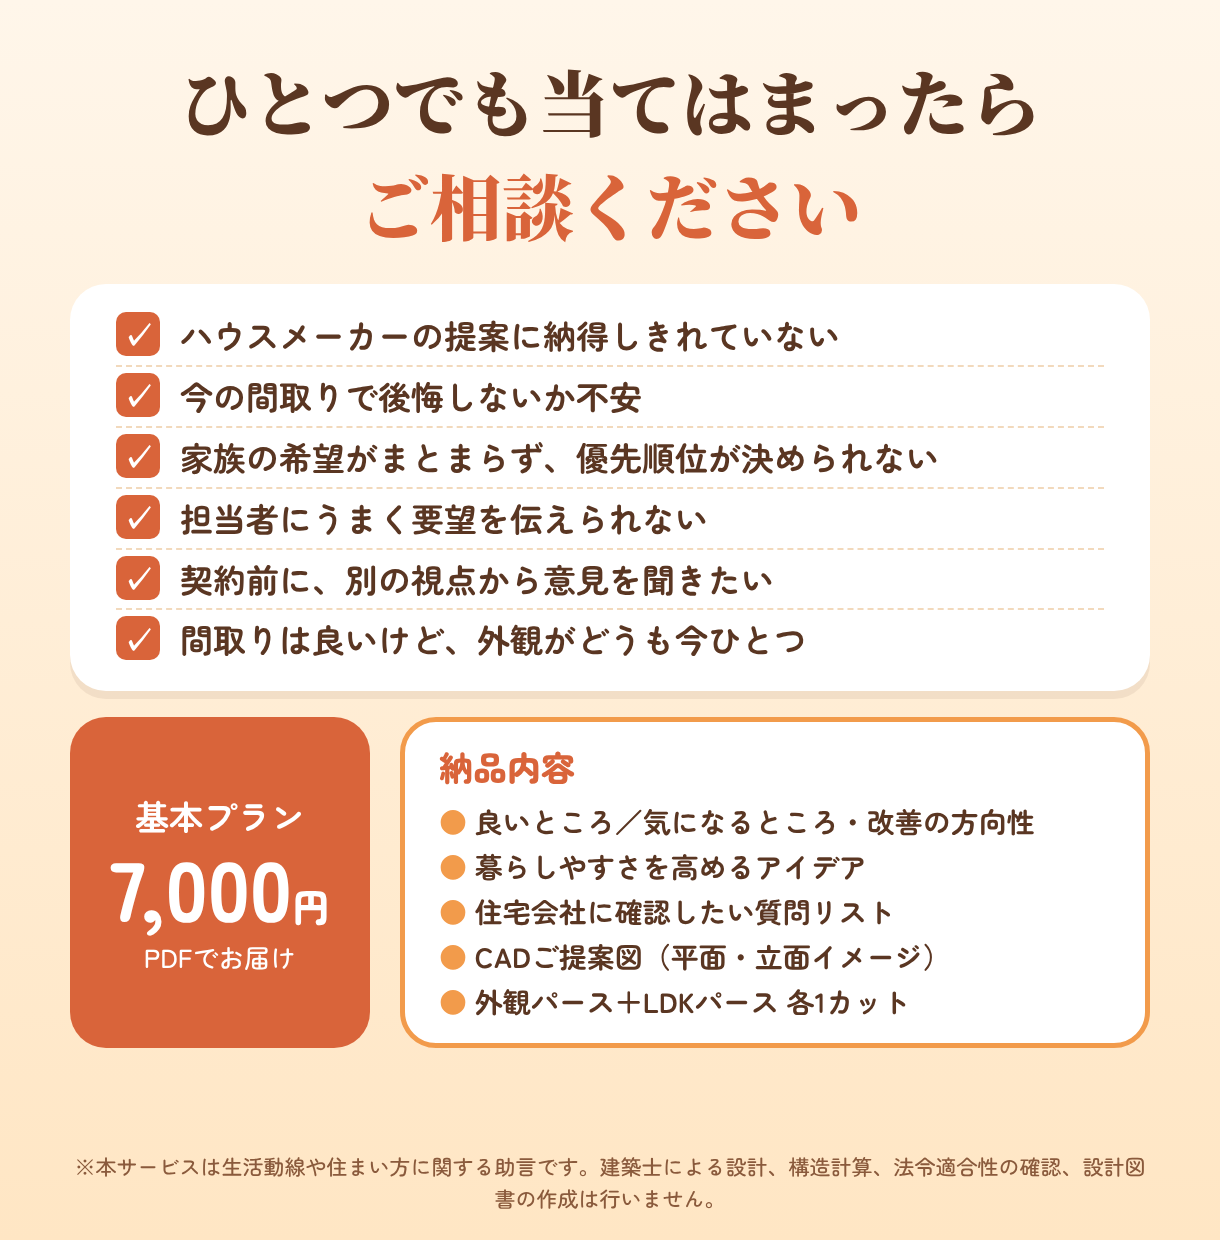
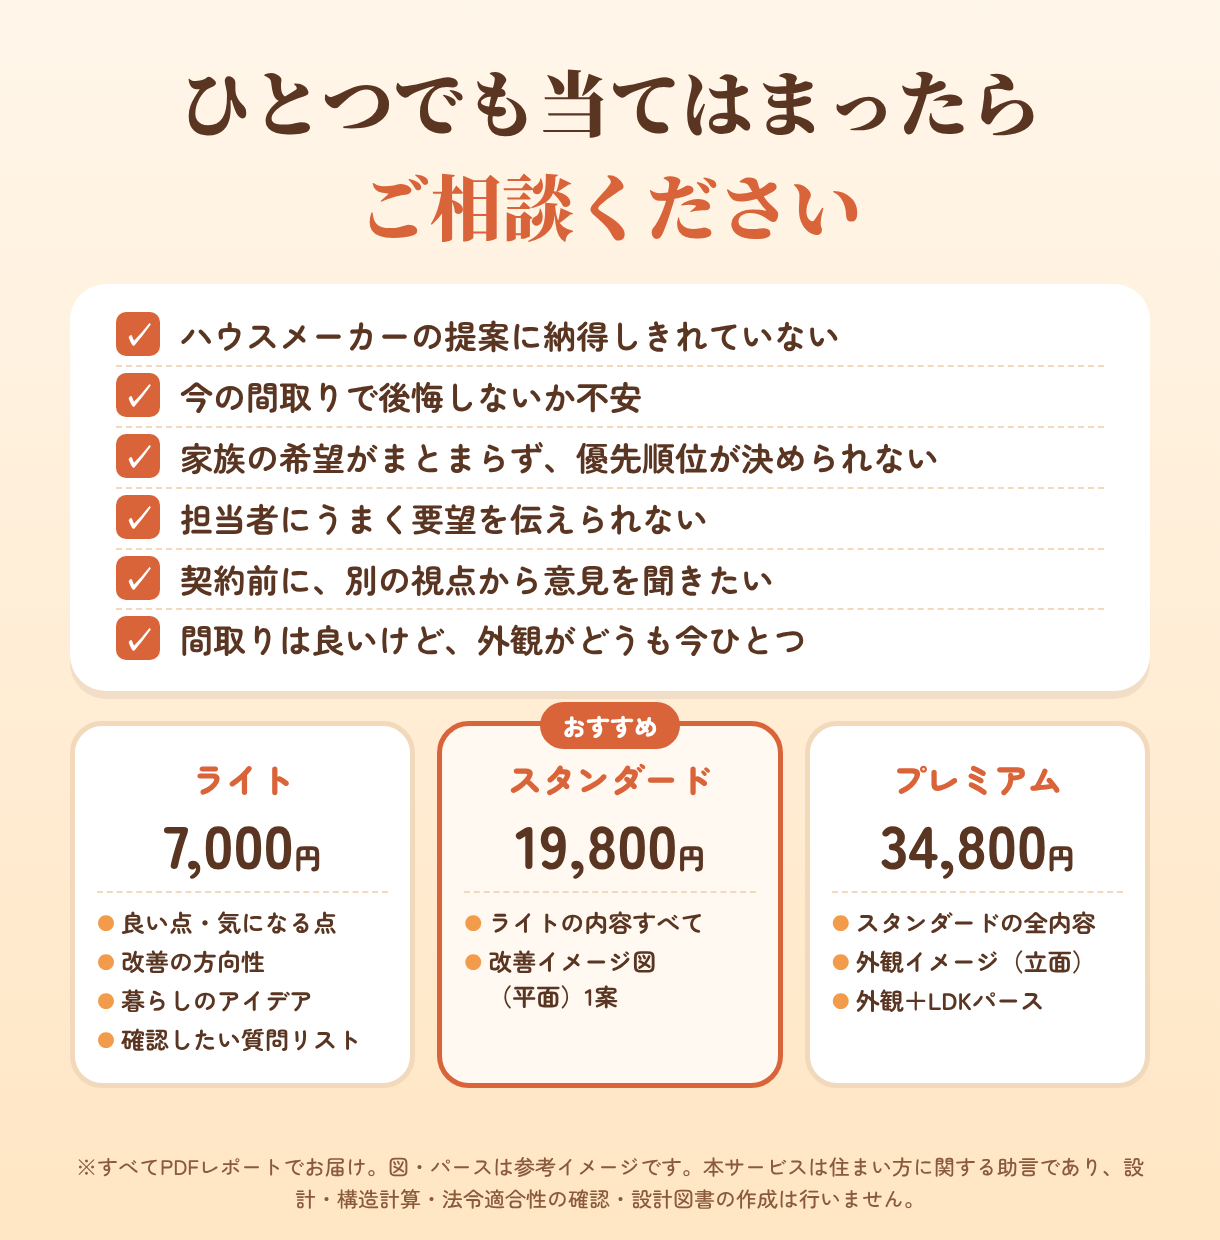
Add Coconala listing copy and three-plan pricing image
Claude-Session: https://claude.ai/code/session_014Bir3B7inNKfwTSGL4H7Cu

Changed region(s): [[0.0311, 0.5516, 0.9656, 0.8887], [0.0623, 0.9194, 0.9344, 0.9806]]

diff --git a/coconala/madori_images.html b/coconala/madori_images.html
@@ -73,6 +73,16 @@ body{background:#ccc;font-family:"Zen Maru Gothic",sans-serif;color:var(--brown)
 #p4 .plan .dl li{list-style:none;font-size:28px;font-weight:700;line-height:1.6}
 #p4 .plan .dl li:before{content:"● ";color:var(--orange)}
 #p4 .note{position:absolute;bottom:26px;left:70px;right:70px;font-size:21px;line-height:1.5;color:var(--brown2);text-align:center}
+#p4 .plans{margin:30px 70px 0;display:flex;gap:22px}
+#p4 .pl{flex:1;position:relative;background:#fff;border:5px solid #F2D9BC;border-radius:32px;padding:28px 22px 22px;text-align:center}
+#p4 .pl.rec{border-color:var(--terra);background:#FFF9F2}
+#p4 .tag{position:absolute;top:-24px;left:50%;transform:translateX(-50%);background:var(--terra);color:#fff;font-weight:900;font-size:24px;padding:6px 22px;border-radius:999px;white-space:nowrap}
+#p4 .pn{font-size:34px;font-weight:900;color:var(--terra)}
+#p4 .pv{font-size:60px;font-weight:900;line-height:1.2;margin:4px 0 12px}
+#p4 .pv small{font-size:28px}
+#p4 .pl ul{text-align:left;border-top:2px dashed #F2D9BC;padding-top:12px}
+#p4 .pl li{list-style:none;font-size:24px;font-weight:700;line-height:1.45;padding-left:24px;position:relative;margin-bottom:4px}
+#p4 .pl li:before{content:"●";position:absolute;left:0;color:var(--orange);font-size:18px;top:4px}
 </style></head><body>
 
 <!-- ============ 1: メインキャッチ ============ -->
@@ -146,16 +156,11 @@ body{background:#ccc;font-family:"Zen Maru Gothic",sans-serif;color:var(--brown)
     <li>契約前に、別の視点から意見を聞きたい</li>
     <li>間取りは良いけど、外観がどうも今ひとつ</li>
   </ul>
-  <div class="plan">
-    <div class="pr"><div class="l">基本プラン</div><div class="v">7,000<small>円</small></div><div class="n">PDFでお届け</div></div>
-    <div class="dl"><h4>納品内容</h4><ul>
-      <li>良いところ／気になるところ・改善の方向性</li>
-      <li>暮らしやすさを高めるアイデア</li>
-      <li>住宅会社に確認したい質問リスト</li>
-      <li>CADご提案図（平面・立面イメージ）</li>
-      <li>外観パース＋LDKパース 各1カット</li>
-    </ul></div>
+  <div class="plans">
+    <div class="pl"><div class="pn">ライト</div><div class="pv">7,000<small>円</small></div><ul><li>良い点・気になる点</li><li>改善の方向性</li><li>暮らしのアイデア</li><li>確認したい質問リスト</li></ul></div>
+    <div class="pl rec"><div class="tag">おすすめ</div><div class="pn">スタンダード</div><div class="pv">19,800<small>円</small></div><ul><li>ライトの内容すべて</li><li>改善イメージ図<br>（平面）1案</li></ul></div>
+    <div class="pl"><div class="pn">プレミアム</div><div class="pv">34,800<small>円</small></div><ul><li>スタンダードの全内容</li><li>外観イメージ（立面）</li><li>外観＋LDKパース</li></ul></div>
   </div>
-  <div class="note">※本サービスは生活動線や住まい方に関する助言です。建築士による設計、構造計算、法令適合性の確認、設計図書の作成は行いません。</div>
+  <div class="note">※すべてPDFレポートでお届け。図・パースは参考イメージです。本サービスは住まい方に関する助言であり、設計・構造計算・法令適合性の確認・設計図書の作成は行いません。</div>
 </section>
 </body></html>

diff --git a/coconala/listing.md b/coconala/listing.md
@@ -1,0 +1,189 @@
+# ココナラ出品ページ文章（間取り添削・提案）
+
+---
+
+## ■ サービスタイトル（30文字以内）
+
+**採用案**
+> 現役住宅営業23年がハウスメーカーの間取りを添削します
+
+**別案**
+- 契約前の間取り、住宅営業23年の目線で忖度なく診断します
+- その間取りで大丈夫？現役住宅営業が暮らし目線で添削します
+
+---
+
+## ■ キャッチコピー（サムネイル下・一覧表示用）
+
+> 「この間取りで本当にいい？」その迷いを納得に変えます
+
+---
+
+## ■ サービス内容
+
+```
+ハウスメーカーからの提案に、違和感を感じていませんか？
+「この間取りで、本当にいいのかな？」
+その迷いを、納得に変えるお手伝いをします。
+
+━━━━━━━━━━━━━━━━━━━━
+◆コストも配慮した総合提案なら、やっぱり営業がいちばん！◆
+━━━━━━━━━━━━━━━━━━━━
+
+住宅営業23年・お引渡し200件以上。
+今も現場に立つ「現役の住宅営業」が、第三者の立場でお答えします。
+
+◎ あなたの担当営業ではないから、素直にお答えできること
+　契約をいただく立場ではないからこそ、良いところも気になるところも、忖度なくお伝えします。
+
+◎ 現役ならではの「いま」の情報
+　住宅設備や暮らし方のトレンドは年々変わります。最新の流行りと一般論、そしてお客様のご要望をふまえてご意見します。
+
+◎ 建築士とはまた違う目線
+　建物のプロとは違う「暮らしと予算のプロ」の目線で、プラスアップのご提案と新たな気づきをお届けします。
+
+━━━━━━━━━━━━━━━━━━━━
+■ こんなお悩みはありませんか？
+━━━━━━━━━━━━━━━━━━━━
+「希望は伝えたはずなのに、何かが違う」
+「悪い間取りではないけれど、決め手に欠ける」
+「もっと自分たちらしい暮らし方がある気がする」
+
+私が大切にしているのは、間取りそのものよりも、その先にある暮らしです。
+部屋の広さや配置だけでなく、
+・毎日の生活動線（家事・身支度・帰宅動線）
+・収納の量と「使いやすい場所」にあるか
+・ご家族それぞれの過ごし方
+・お子さまの成長や老後など、将来の暮らしの変化
+・コストのかけどころ／抑えどころ
+まで考えながら、一緒に整理していきます。
+
+━━━━━━━━━━━━━━━━━━━━
+■ こんな方におすすめです
+━━━━━━━━━━━━━━━━━━━━
+✓ ハウスメーカーの提案に納得しきれていない
+✓ 今の間取りで後悔しないか不安
+✓ 家族の希望がまとまらず、優先順位を決められない
+✓ 住宅会社の担当者にうまく要望を伝えられない
+✓ 契約前に、別の視点から意見を聞いてみたい
+✓ 今の間取りの良いところ・改善点を忖度なく知りたい
+✓ 間取りは良いけれど、外観がどうしても今ひとつ
+
+━━━━━━━━━━━━━━━━━━━━
+■ プランと納品内容
+━━━━━━━━━━━━━━━━━━━━
+【ライト】7,000円／お届け目安5日
+・間取りの良いところ
+・気になるところと改善の方向性
+・暮らしやすさを高めるアイデア
+・住宅会社に確認したい質問リスト
+→ PDFレポートでお届け（ご質問1往復つき）
+
+【スタンダード】19,800円／お届け目安7日
+・ライトの内容すべて
+・改善イメージ図（平面）1案
+→ PDFレポートでお届け（ご質問2往復つき）
+
+【プレミアム】34,800円／お届け目安10日
+・スタンダードの内容すべて
+・外観イメージ（立面）
+・外観パース1カット＋LDKパース1カット
+→ PDFレポートでお届け（ご質問3往復つき）
+
+※改善イメージ図・パースは、ご提案内容を分かりやすくお伝えするための「参考イメージ」です。寸法・構造・法規を確認した設計図ではないため、そのまま工事や申請には使用できません。採用される場合は、ご依頼中の住宅会社・建築士へご相談ください。
+
+━━━━━━━━━━━━━━━━━━━━
+■ ご依頼の流れ
+━━━━━━━━━━━━━━━━━━━━
+① ご購入前に、ダイレクトメッセージでお気軽にご相談ください
+② ご購入後、トークルームで図面とヒアリングシートをお送りいただきます
+③ 内容を確認し、不明点があれば質問させていただきます
+④ PDFレポートを納品します
+⑤ 内容についてのご質問にお答えし、完了となります
+
+━━━━━━━━━━━━━━━━━━━━
+■ 私からのメッセージ
+━━━━━━━━━━━━━━━━━━━━
+家づくりで本当に大切なのは、立派な間取りを完成させることではありません。
+その家で、ご家族がどんな毎日を過ごせるか。
+
+23年間、住宅営業として多くのお客様の家づくりに携わってきて感じるのは、
+良い家の答えは図面の中だけにあるのではなく、お客様の暮らしの中にある、ということです。
+
+今の間取りを否定するためではなく、より納得して家づくりを進めるために。
+あなたの住まいづくりを、もう一つの視点からサポートいたします。
+
+━━━━━━━━━━━━━━━━━━━━
+■ ご注意事項
+━━━━━━━━━━━━━━━━━━━━
+・本サービスは、生活動線や住まい方、コストバランスに関する「助言」です。
+・建築士による設計、構造計算、法令適合性の確認、設計図書の作成は行いません。
+・特定の住宅会社のご紹介・営業・ご契約への誘導は一切行いません。
+・最終的なご判断は、ご依頼中の住宅会社・建築士とご相談のうえ行ってください。
+```
+
+---
+
+## ■ 購入にあたってのお願い
+
+```
+ご購入後、トークルームにて以下をお送りください。
+
+【必須】
+1. 現在の間取り図（平面図）
+　 PDF・画像・写真いずれも可。各階分をお願いします。
+2. 家族構成（年齢・性別のおおよそで結構です）
+3. ご要望・気になっている点（箇条書きで大丈夫です）
+
+【あれば、より具体的にご提案できます】
+・敷地図／配置図（方位・道路の位置が分かるもの）
+・立面図や外観イメージ
+・ご予算の目安、延床面積のご希望
+・現在の住まいで不満な点、新居で必ず叶えたいこと
+・住宅会社からの見積書（金額部分は伏せていただいても構いません）
+
+【個人情報について】
+図面に記載されたお名前・ご住所・住宅会社の担当者名などは、
+塗りつぶすか隠した状態でお送りください。
+いただいた資料は本サービスの目的以外には使用せず、取引完了後に削除します。
+
+【ご了承いただきたいこと】
+・ご購入前に、ダイレクトメッセージで図面の状況やご要望をお聞かせいただけるとスムーズです。
+・本業がございますので、メッセージのお返事は原則24時間以内とさせていただきます。
+・改善イメージ図・パースは参考イメージであり、工事や申請には使用できません。
+・建築基準法などの法規チェック、構造・耐震の判断は対象外です。
+```
+
+---
+
+## ■ よくある質問（FAQ）
+
+**Q1. 建築士の資格はありますか？**
+A. 建築士ではなく、住宅営業として23年・200件以上のお引渡しに携わってきた立場からのアドバイスです。設計の専門家とは違う「暮らし・使い勝手・コストバランス」の目線でお答えします。法規や構造の確認は、ご依頼中の住宅会社・建築士へご相談ください。
+
+**Q2. どの段階で依頼するのがおすすめですか？**
+A. いちばん効果が大きいのは「契約前」または「間取りがほぼ固まった打ち合わせ中」です。契約後でも、着工前であれば変更できる部分が多いので、お気軽にご相談ください。
+
+**Q3. 手書きの間取りやスマホで撮った写真でも大丈夫ですか？**
+A. はい、大丈夫です。寸法や部屋の名前が読み取れれば問題ありません。読み取りにくい箇所はトークルームで確認させていただきます。
+
+**Q4. ハウスメーカーにも工務店にも対応していますか？**
+A. はい、大手ハウスメーカー・工務店・設計事務所など、どちらからの提案でも対応しています。建売住宅・中古住宅のご購入前のチェックもご相談ください。
+
+**Q5. 現役の営業ということですが、他社への誘導はありませんか？**
+A. 一切ありません。特定の会社のご紹介や営業は行わず、第三者の立場で、今お持ちの提案をより良くするためのアドバイスに徹します。
+
+**Q6. 担当の営業さんに、相談したことを伝えるべきですか？**
+A. お伝えいただく必要はありません。納品物の「住宅会社に確認したい質問リスト」は、そのまま打ち合わせでお使いいただける形でお作りしますので、ご自身の言葉で要望を伝える材料にしてください。
+
+**Q7. 費用（コスト）についてもアドバイスしてもらえますか？**
+A. はい。「どこにお金をかけ、どこを抑えると満足度が高いか」という考え方や、コストが上がりやすいポイントをお伝えします。ただし、見積金額が適正かどうかの判定は行っておりません。
+
+**Q8. 外観だけの相談もできますか？**
+A. はい、可能です。外観のご相談はプレミアムプランの立面イメージ・外観パースでご提案します。ご購入前にメッセージでご相談ください。
+
+**Q9. 納品後に追加で相談したくなったら？**
+A. 各プランに含まれる往復回数を超えるご質問や、別案の追加は有料オプションで承ります。お気軽にお声がけください。
+
+**Q10. 二世帯住宅や平屋も対応できますか？**
+A. はい、対応しています。二世帯住宅は確認事項が多いため、プレミアムプランをおすすめしています。
